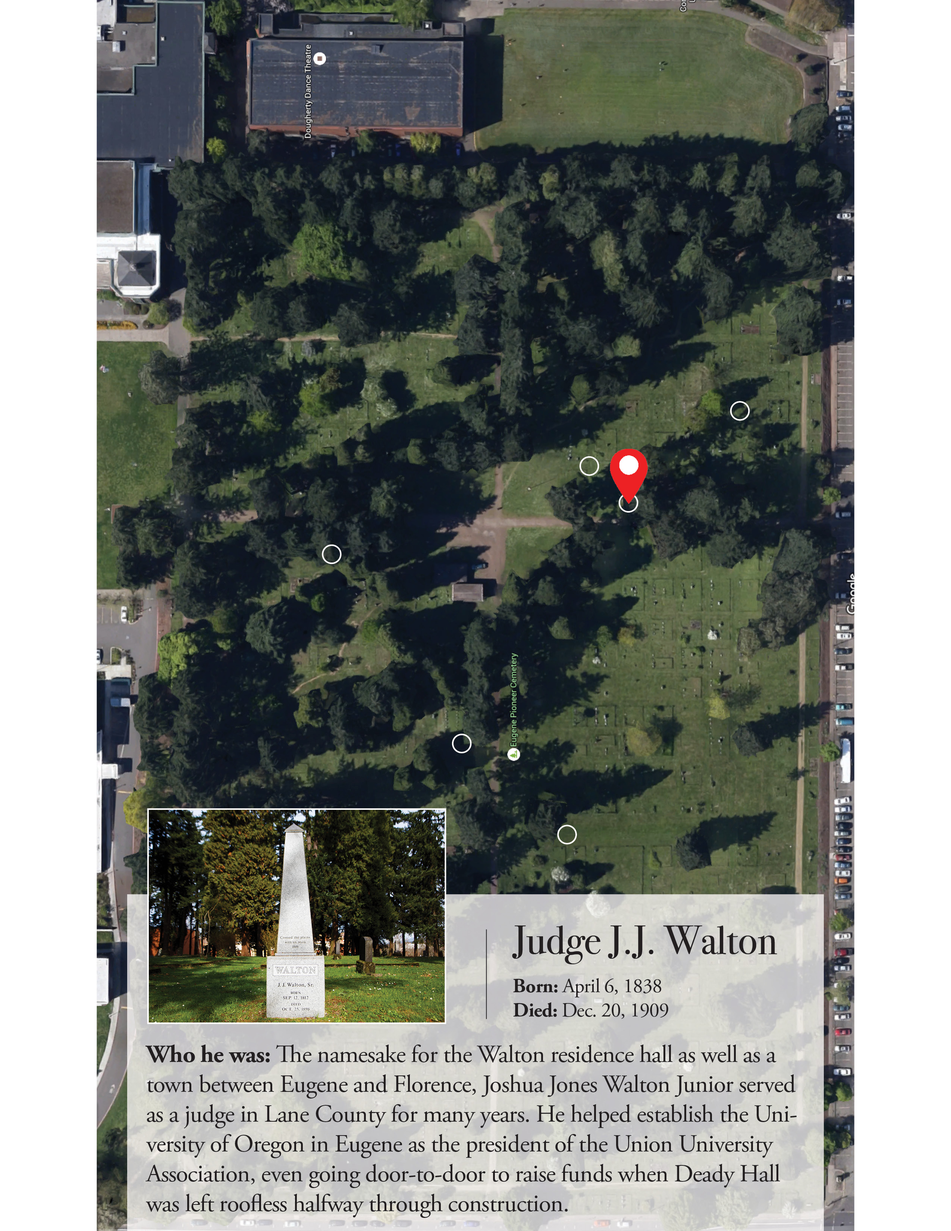
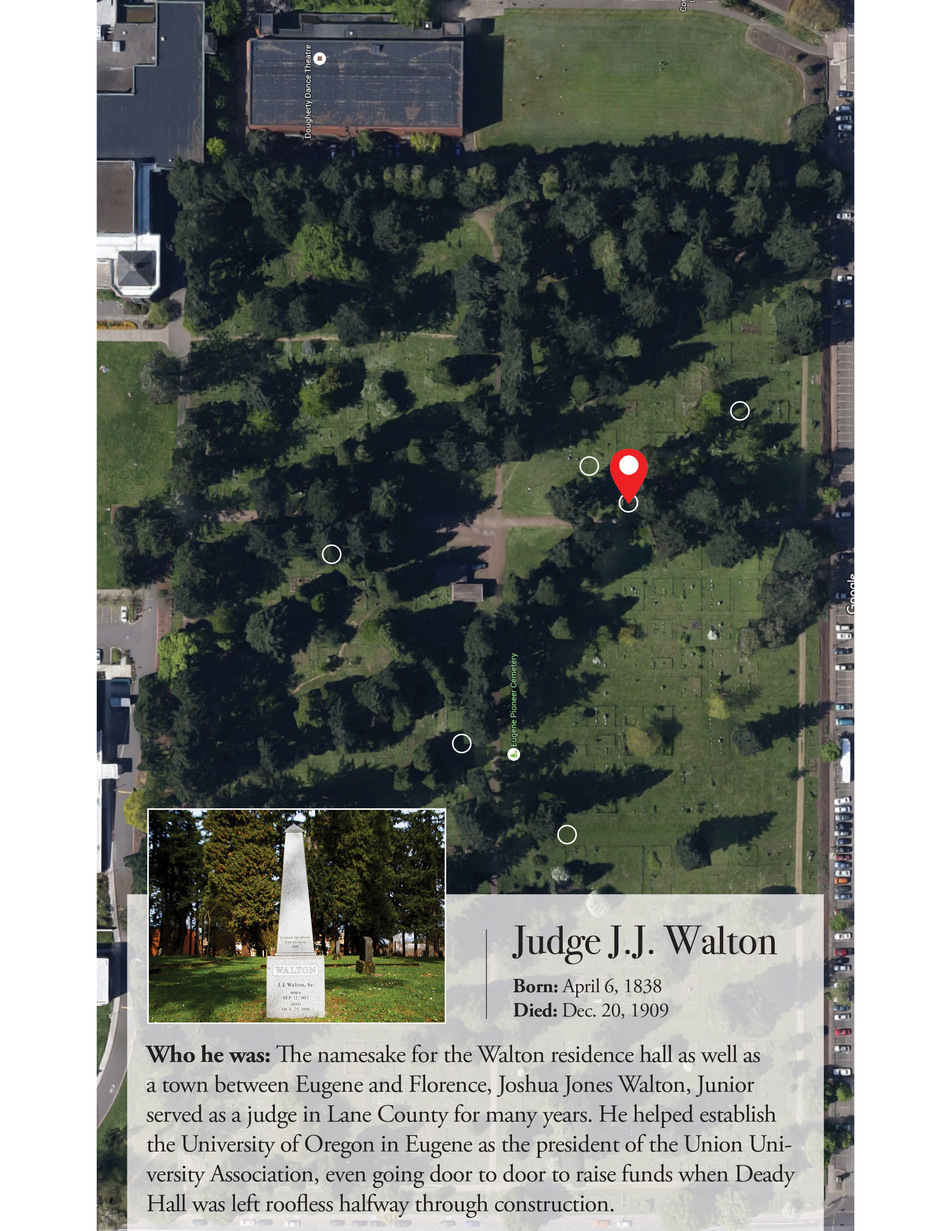
Final changes except profile pictures

Changed region(s): [[0.1549, 0.8739, 0.8365, 0.9988]]

diff --git a/index.html b/index.html
@@ -14,7 +14,7 @@
     <script src="js/mediaelement-and-player.min.js"></script>
     <link rel="stylesheet" href="css/mediaelementplayer.css" /></code>
     <script src="js/functions.js"></script>
-    <title>Cemetery</title>
+    <title>Guardians of the Graves</title>
 </head>
 <body>
 
@@ -34,7 +34,7 @@
      </div> 
 
      <div class="videoText">
-      <p class="absolute">Eugene Masonic Cemetery</p>
+      <p class="absolute">Eugene Pioneer Cemetery</p>
       <p class="nextAb">You walk through it every day.<br>How much do you actually know about it?</p>
      </div>
        
@@ -59,12 +59,12 @@
     <div id="body1" class="col-md-5 col-xs-12 col-sm-12">
       
     
-    <p id="author">By Kaylee Tornay</p>
+    <p id="author">Kaylee Tornay</p>
   
 
 <p>In the midst of a noisy university, George Dull lives in one of the quietest neighborhoods around: surrounded by more than 4,000 graves in the center of the Eugene Pioneer Cemetery.</p>
 
-<p>“I get along great with my neighbors,” he says.</p>
+<p>“I get along great with my neighbors,” he said.</p>
 
 <div  class="visible-sm visible-xs">
      <div class="mobileHead">
@@ -74,24 +74,22 @@
       </div>
 </div>
 
-<p>In his 24 years living in a trailer in the cemetery, Dull hasn’t had many unpleasant encounters with people passing through. Still, he doesn’t recommend walking through it at night. The interior of the property is deliberately left poorly lit to discourage people from doing so, says Kelly McIver, public information officer with UOPD.</p>
+<p>In his 24-year span as a grounds caretaker living in a trailer in the cemetery, Dull hasn’t had many unpleasant encounters with people passing through. Still, he doesn’t recommend walking through it at night. The grounds are deliberately left poorly lit to discourage people from doing so, said Kelly McIver, public information officer with the University of Oregon Police Department.</p>
 
-<p>There’s a perception that the cemetery is a hotbed of illegal activity, which is probably exaggerated by the nature of what the land is used for, McIver says. High rates of personal crimes—assaults and robberies—happen in areas with steady streams of people who could be targeted, and a steady stream of potential perpetrators.</p>
-
-<p>“You just don’t get that with the cemetery,” he says.</p>
+<p>McIver said the cemetery’s reputation as a crime hotspot may be exaggerated by its function. Personal crimes like assaults and robberies are most likely to happen in high-traffic areas, but the cemetery is fairly empty at night.</p>
 
   <div  class="visible-sm visible-xs">
       <div class="mobileHead2">
           <img class="textImage" src="img/story/4.png">
             <div class="mobileText">Quentin Holmes</div>
-            <div class="mobileSubText">Association president</div>
+            <div class="mobileSubText">Association President</div>
       </div>
   </div>
 
 
-<p>Even so, the 16.5-acre lot remains in large part a mystery to the students who walk through it. For some, it’s a popular place to run, while others won’t go near it day or night. Some simply ignore it.</p>
+<p>For some students, it’s a popular place to run. Some simply ignore it. But the 16.5-acre lot, established in 1873, remains in large part a mystery to the students who walk through it.</p>
 
-<p>But to a group of men and women deeply rooted in the Eugene community, who work dozens of monthly hours beyond the sight of students, the cemetery is a source of responsibility to preserve and protect those buried there. For some of this aging group of volunteers, that includes, for some, their own ancestors.</p>
+<p>But to a small group of men and women with deep roots in the Eugene community, the Pioneer Cemetery is familiar ground. They work dozens of hours each month beyond the sight of students, fueled by a sense of responsibility to preserve those buried there. For some of the volunteers, that includes their own ancestors.</p>
 
 
     </div>
@@ -119,7 +117,7 @@
         <div class="picRight">
           <div class="text">
             <div class="bigText">Quentin Holmes</div>
-            <div class="smText">Association president</div>
+            <div class="smText">Association President</div>
 
           </div>
         </div>
@@ -167,7 +165,7 @@
           <img src="img/story/3.png">
 
               <div class="bigText">Bob Carmichael</div>
-              <div class="smText">Cemetery endowment fund treasurer</div>
+              <div class="smText">Cemetery Endowment Fund Treasurer</div>
 
       </div>
 
@@ -175,7 +173,7 @@
         <img src="img/story/2.png">
    
             <div class="bigText">Dorothy Brandner</div>
-            <div class="smText">Cemetery historian</div>
+            <div class="smText">Cemetery Historian</div>
 
       </div>
 
@@ -183,42 +181,35 @@
     </div>
 
 
-    <div id="body2" class="col-md-7 col-xs-12 col-sm-12">
+    <div id="body2" class="col-md-5 col-xs-12 col-sm-12">
 
-    <div id="subline">Subline goes here</div>
-<p>One of those volunteers is Quentin Holmes, whose family ties to Eugene and the cemetery precede him by three generations, with the headstones to prove it. Holmes has been the president of the Eugene Pioneer Cemetery Association since 2012; Holmes’ great-grandfather Burt Lake is buried in the cemetery next to his first wife and sister. </p>
+<p>One of those volunteers is Quentin Holmes, whose family ties to Eugene and the cemetery precede him by three generations — with the headstones to prove it. Holmes has been the president of the Eugene Pioneer Cemetery Association board since 2006; Holmes’ great-grandfather Burt Lake is buried in the cemetery next to Lake’s first wife and sister. When Holmes was growing up, his mother frequently sent him to clean up the plot. Other board members with buried ancestors have similar stories from their childhoods.</p>
 
 <div  class="visible-sm visible-xs">
      <div class="mobileHead2">
           <img class="textImage" src="img/story/3.png">
             <div class="mobileText">Bob Carmichael</div>
-            <div class="mobileSubText">Cemetery endowment fund treasurer</div>
+            <div class="mobileSubText">Cemetery Endowment Fund Treasurer</div>
       </div>
 
 </div>
 
-<p>
-When Holmes was growing up, his mom frequently sent him to clean up the plot. Other board members with buried ancestors have similar stories from their childhoods.</p>
+<p>“Back then, that was just what people did,” Holmes said.</p>
 
+<p>The cemetery association’s historian, Dorothy Brandner, is one of the few board members without family buried in the cemetery. But for years she has sifted through marriage licenses, death certificates, birth certificates and census reports on a mission to identify the estimated 4,200 people at rest in the Pioneer Cemetery.</p>
 
-
-
-<p>“Back then, that was just what people did,” Holmes says.</p>
-
-<p>The cemetery association’sEPCA historian, Dorothy Brandner, is one of the few board members without family buried in the cemetery. B, but for years she has sifted through marriage licenses, death certificates, birth certificates and census reports on a mission to identify the estimated 4,200 people at rest the Pioneer Cemetery.</p>
-
-<p>“It’s like a puzzle,” Brandner says about her work. “I like history and piecing the past together.”</p>
+<p>“It’s like a puzzle,” Brandner said about her work. “I like history and piecing the past together.”</p>
 
 
 <div  class="visible-sm visible-xs">
      <div class="mobileHead">
           <img class="textImage" src="img/story/2.png">
             <div class="mobileText">Dorothy Brandner</div>
-            <div class="mobileSubText">Cemetery historian</div>
+            <div class="mobileSubText">Cemetery Historian</div>
       </div>
 </div>
 
-<p>The credit for her first getting involved goes to Bob Carmichael, who got his first, although unwilling, kiss in the cemetery in the fourth4th  grade. For several decades, he’s run a local dental practice, while managing a 300-tree Christmas tree farm and serving as the treasurer of the cemetery’s endowment fund. He first urged Brandner to get involved with the board at a dental appointment in 2003.</p>
+<p>Brandner accredits Bob Carmichael for her initial involvement. Carmichael serves as the treasurer of the cemetery’s endowment fund, and for several decades has run a local dental practice while managing a 300-tree Christmas tree farm. He first urged Brandner to get involved with the board at a dental appointment in 2008.</p>
 
 
 
@@ -238,19 +229,20 @@ When Holmes was growing up, his mom frequently sent him to clean up the plot. Ot
       
     </div>
 
-    <div class="col-md-6 col-xs-12 col-xs-12">
-    <div id="subline">Subline goes here</div>
-      <p>The board includes several other members with long-standing links to the cemetery, but for Holmes, Brandner and Carmichael, it has maintained common ground between them as their connections to Eugene and each other have evolved  over the decades. They all went to South Eugene High School together, though they graduated in different years. Holmes left Oregon for several years; Brandner was a nurse at Sacred Heart. When Carmichael was a Kappa Sigma at the UO studying dentistry, he would go into the cemetery to seek solace. Today, he still visits frequently.</p>
+    <div class="col-md-5 col-xs-12 col-xs-12">
+      <p>Like Holmes, Carmichael tended to relatives’ graves while growing up. He also received his first, although unwilling, kiss in the cemetery in the fourth grade while walking a female classmate home from school.</p>
 
-<p>“I look at the gravesites like I did when I was a kid,” Carmichael says. “I feel good when I leave. I can leave there and know maybe I can make a difference, because I’m still alive.”</p>
+<p>Several other board members have longstanding links to the cemetery, but for Holmes, Brandner and Carmichael, it has remained a source of common ground between them. Their connections to Eugene and each other have evolved over the decades.</p>
 
-<p>Their attachment to the cemetery has not been in vain; the board has played a crucial role in preserving the integrity of the graves and headstones since the cemetery association’sEPCA’s formation in 1930. The cemetery itself was established in 1873 under another organization; the association was formed by family members and plot owners.</p>
+<p>They all went to South Eugene High School together, though they graduated in different years. Holmes left Oregon for several years; Brandner was a nurse at Sacred Heart. When Carmichael was a member of Kappa Sigma at the UO studying dentistry, he would go into the cemetery to seek solace. Today, he still visits frequently.</p>
 
-<p>The board also played a critical role in preserving the cemetery at a time when the fate of the bodies buried there, and the cemetery’s relationship with the UO, were not as secure as they have been for the past several decades. In the late 1960s, the university decided it wanted to expand onto the cemetery’s north end, which would have required about 1,100 occupied graves to be dug up and moved. </p>
+<p>“I look at the gravesites like I did when I was a kid,” Carmichael said. “I feel good when I leave ... I can leave there and know I can make a difference because I’m still alive.”</p>
 
-<p>Members of the EPCA and its board fought the proposal, which had to be settled through the state legislature. UO tried to compromise: One memorable proposal made by a state representative suggested that the university  construct a building over the cemetery, raised above the ground on stilts (see photo below). An EPCA board member said at the time that the proposal “merits some consideration—but not much.”</p>
+<p>The three of them are continuing a legacy of protecting the 143-year-old cemetery from changing times. Since the cemetery association formed in 1930, the board has played a crucial role in preserving the graves. For example, in the late 1960s, the university wanted to expand onto the cemetery’s north end, which would have required about 1,100 occupied graves to be dug up and moved.</p>
 
-<p>The cemetery was eventually preserved because plot owners refused to surrender their land and  the EPCA discovered that a Medal of Honor winner, Louis Renninger, was buried there. Medal of Honor winners cannot be moved after they are buried, nor can the cemeteries in which they are buried be changed to some other purpose, according to the board. The university and cemetery have coexisted peacefully since then, aside from a few scuffles over lighting and fencing.</p>
+<p>Cemetery association members and the board fought the proposal, which had to be settled through the state legislature. UO tried to compromise: One memorable proposal made by a state representative suggested that the university construct a building over the cemetery, raised above the ground on stilts. A cemetery board member said at the time that the proposal “merits some consideration — but not much.”</p>
+
+<p>The cemetery was eventually saved because plot owners refused to surrender their land and Holmes’ mother discovered that a Medal of Honor winner, Louis Renninger, was buried there. Medal of Honor winners cannot be moved after they are buried, nor can the cemeteries in which they are buried be changed for some other purpose, according to the board. The university and cemetery have coexisted peacefully since then, aside from a few scuffles over lighting and fencing.</p>
 
 <div class="visible-xs visible-sm">
   <p id="mobileInstructions"><i>Click on a name to see where historical figures are buried in the cemetery.</i></p>
@@ -337,22 +329,21 @@ When Holmes was growing up, his mom frequently sent him to clean up the plot. Ot
 <!--BODY-->
 <div class="container">
   <div id="body3" class="row">
-    <div class="col-md-6 col-xs-12 col-xs-12">
+    <div class="col-md-5 col-xs-12 col-xs-12">
 
-    <div id="subline">Subline goes here</div>
-    <p>In more recent years, the board decided to clear away much of the underbrush and low-hanging branches that used to obscure the view through the cemetery and made it a more welcoming environment for illicit activities.</p>
+    <p>In more recent years, the board decided to clear away much of the underbrush and low-hanging branches that used to obscure the view through the cemetery, making it a less welcoming environment for illicit activities.</p>
 
-<p>The work involved with the cemetery is often physically demanding and requires long hours, which places a heavy burden on a board that consists of members mostly over the age of 70. Students sometimes get involved through community service or research projects, and the board is open to proposals for both. Holmes says that recruiting younger people to get involved is important when looking toward the future.</p>
+<p>The work involved with the cemetery is often physically demanding and requires long hours, which places a heavy burden on a board that consists of members mostly over the age of 70. Students sometimes get involved through community service or research projects, and the board is open to proposals for both. Holmes said that recruiting younger people to get involved is important when looking toward the future.</p>
 
-<p>“You’ve located our Achilles Heel,” he says. “We have to take our old ways and recast them.” </p>
+<p>“You’ve located our Achilles’ heel,” he said. “We have to take our old ways and recast them.”</p> 
 
 <p>Dull is younger than the board members, but he also feels the strain of maintaining the cemetery at his age. If asked how long he plans to stay, his response is blunt:</p>
 
-<p>“I don’t know. Till I die, I guess,” he says.</p>
+<p>“I don’t know. Till I die, I guess,” he said.</p>
 
-<p>In fact, he’ll be there longer. For his 20th work anniversary, the EPCA gave Dull his own plot towards the northeastern end of the cemetery, with a clear view of Mac Court.</p>
+<p>In fact, he’ll be there longer. For his 20th work anniversary, the cemetery association gave Dull his own plot toward the northeastern end of the cemetery, with a clear view of McArthur Court.</p>
 
-<p>“They got me for eternity,” Dull says, as his scuffed tennis shoes sink slightly into the damp green lawn.</p>
+<p>“They got me for eternity,” Dull said, as his scuffed tennis shoes sink slightly into the damp green lawn.</p>
 
 
  

diff --git a/css/general.css b/css/general.css
@@ -73,12 +73,12 @@ div .nextAb{
 }
 
 #author{
-    font-size: 150%;
+    font-size: 120%;
     padding-top: 10%;
     border-bottom-style: solid;
     border-bottom-width: 1px;
     border-bottom-color: black;
-    width: 50%
+    width: 35%
 }
 
 #body1,#body2,#body3{

diff --git a/css/map.css b/css/map.css
@@ -59,8 +59,8 @@ img#stillmap{ width: 100%;
 
 .list-group{
 	position: absolute;
-	left:4%;
-	top: 15%;
+	left:0%;
+	top: 10%;
 	width: 15%;
 	height: auto;
 
